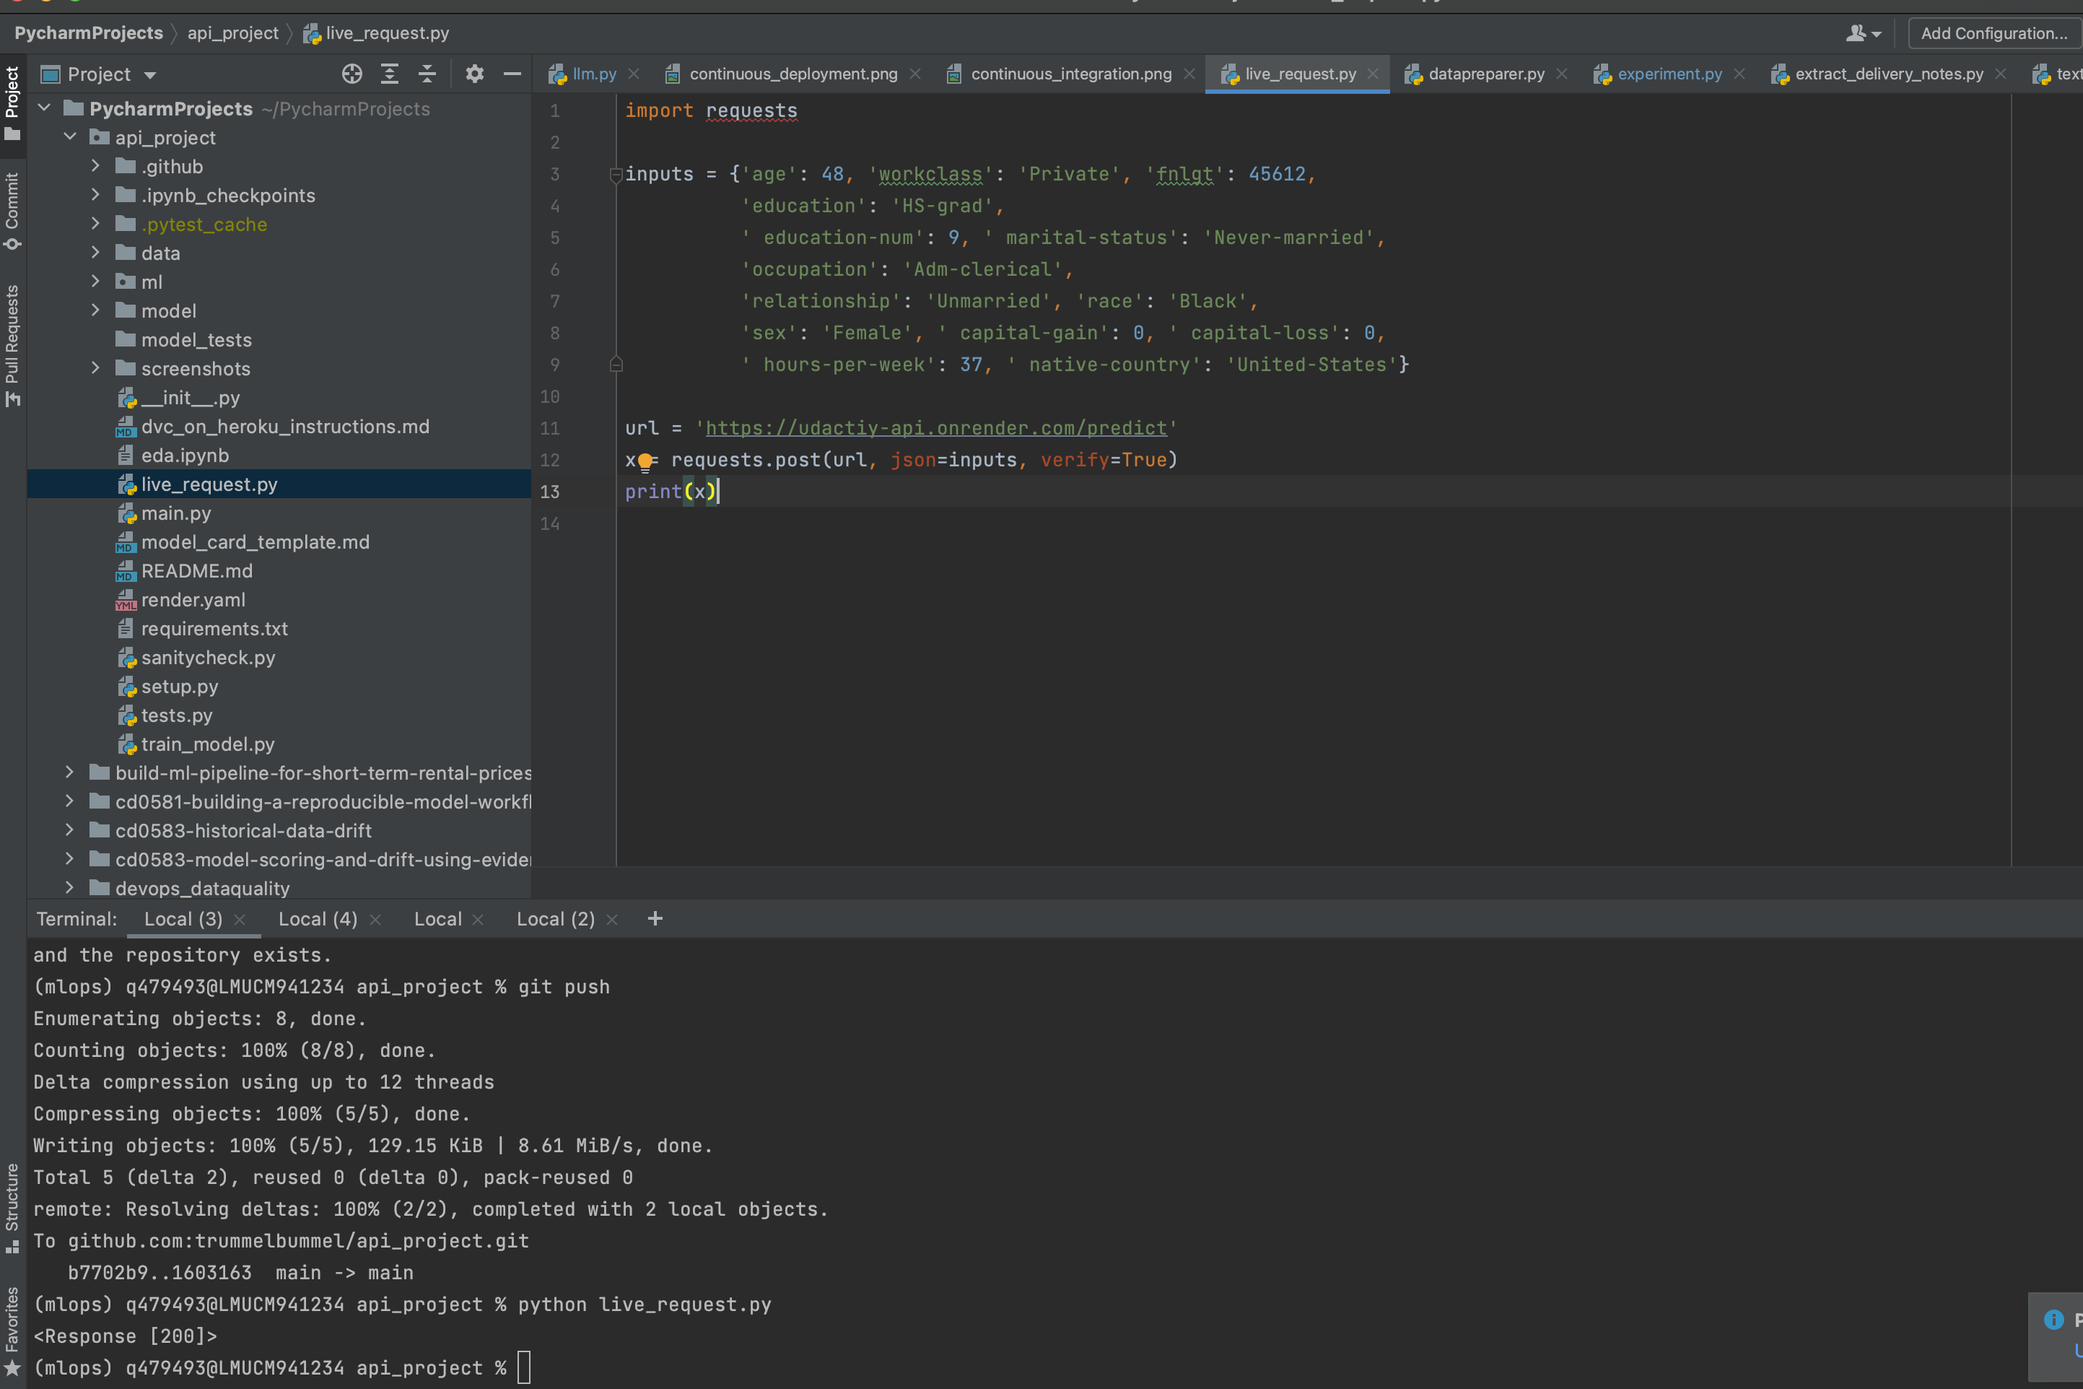
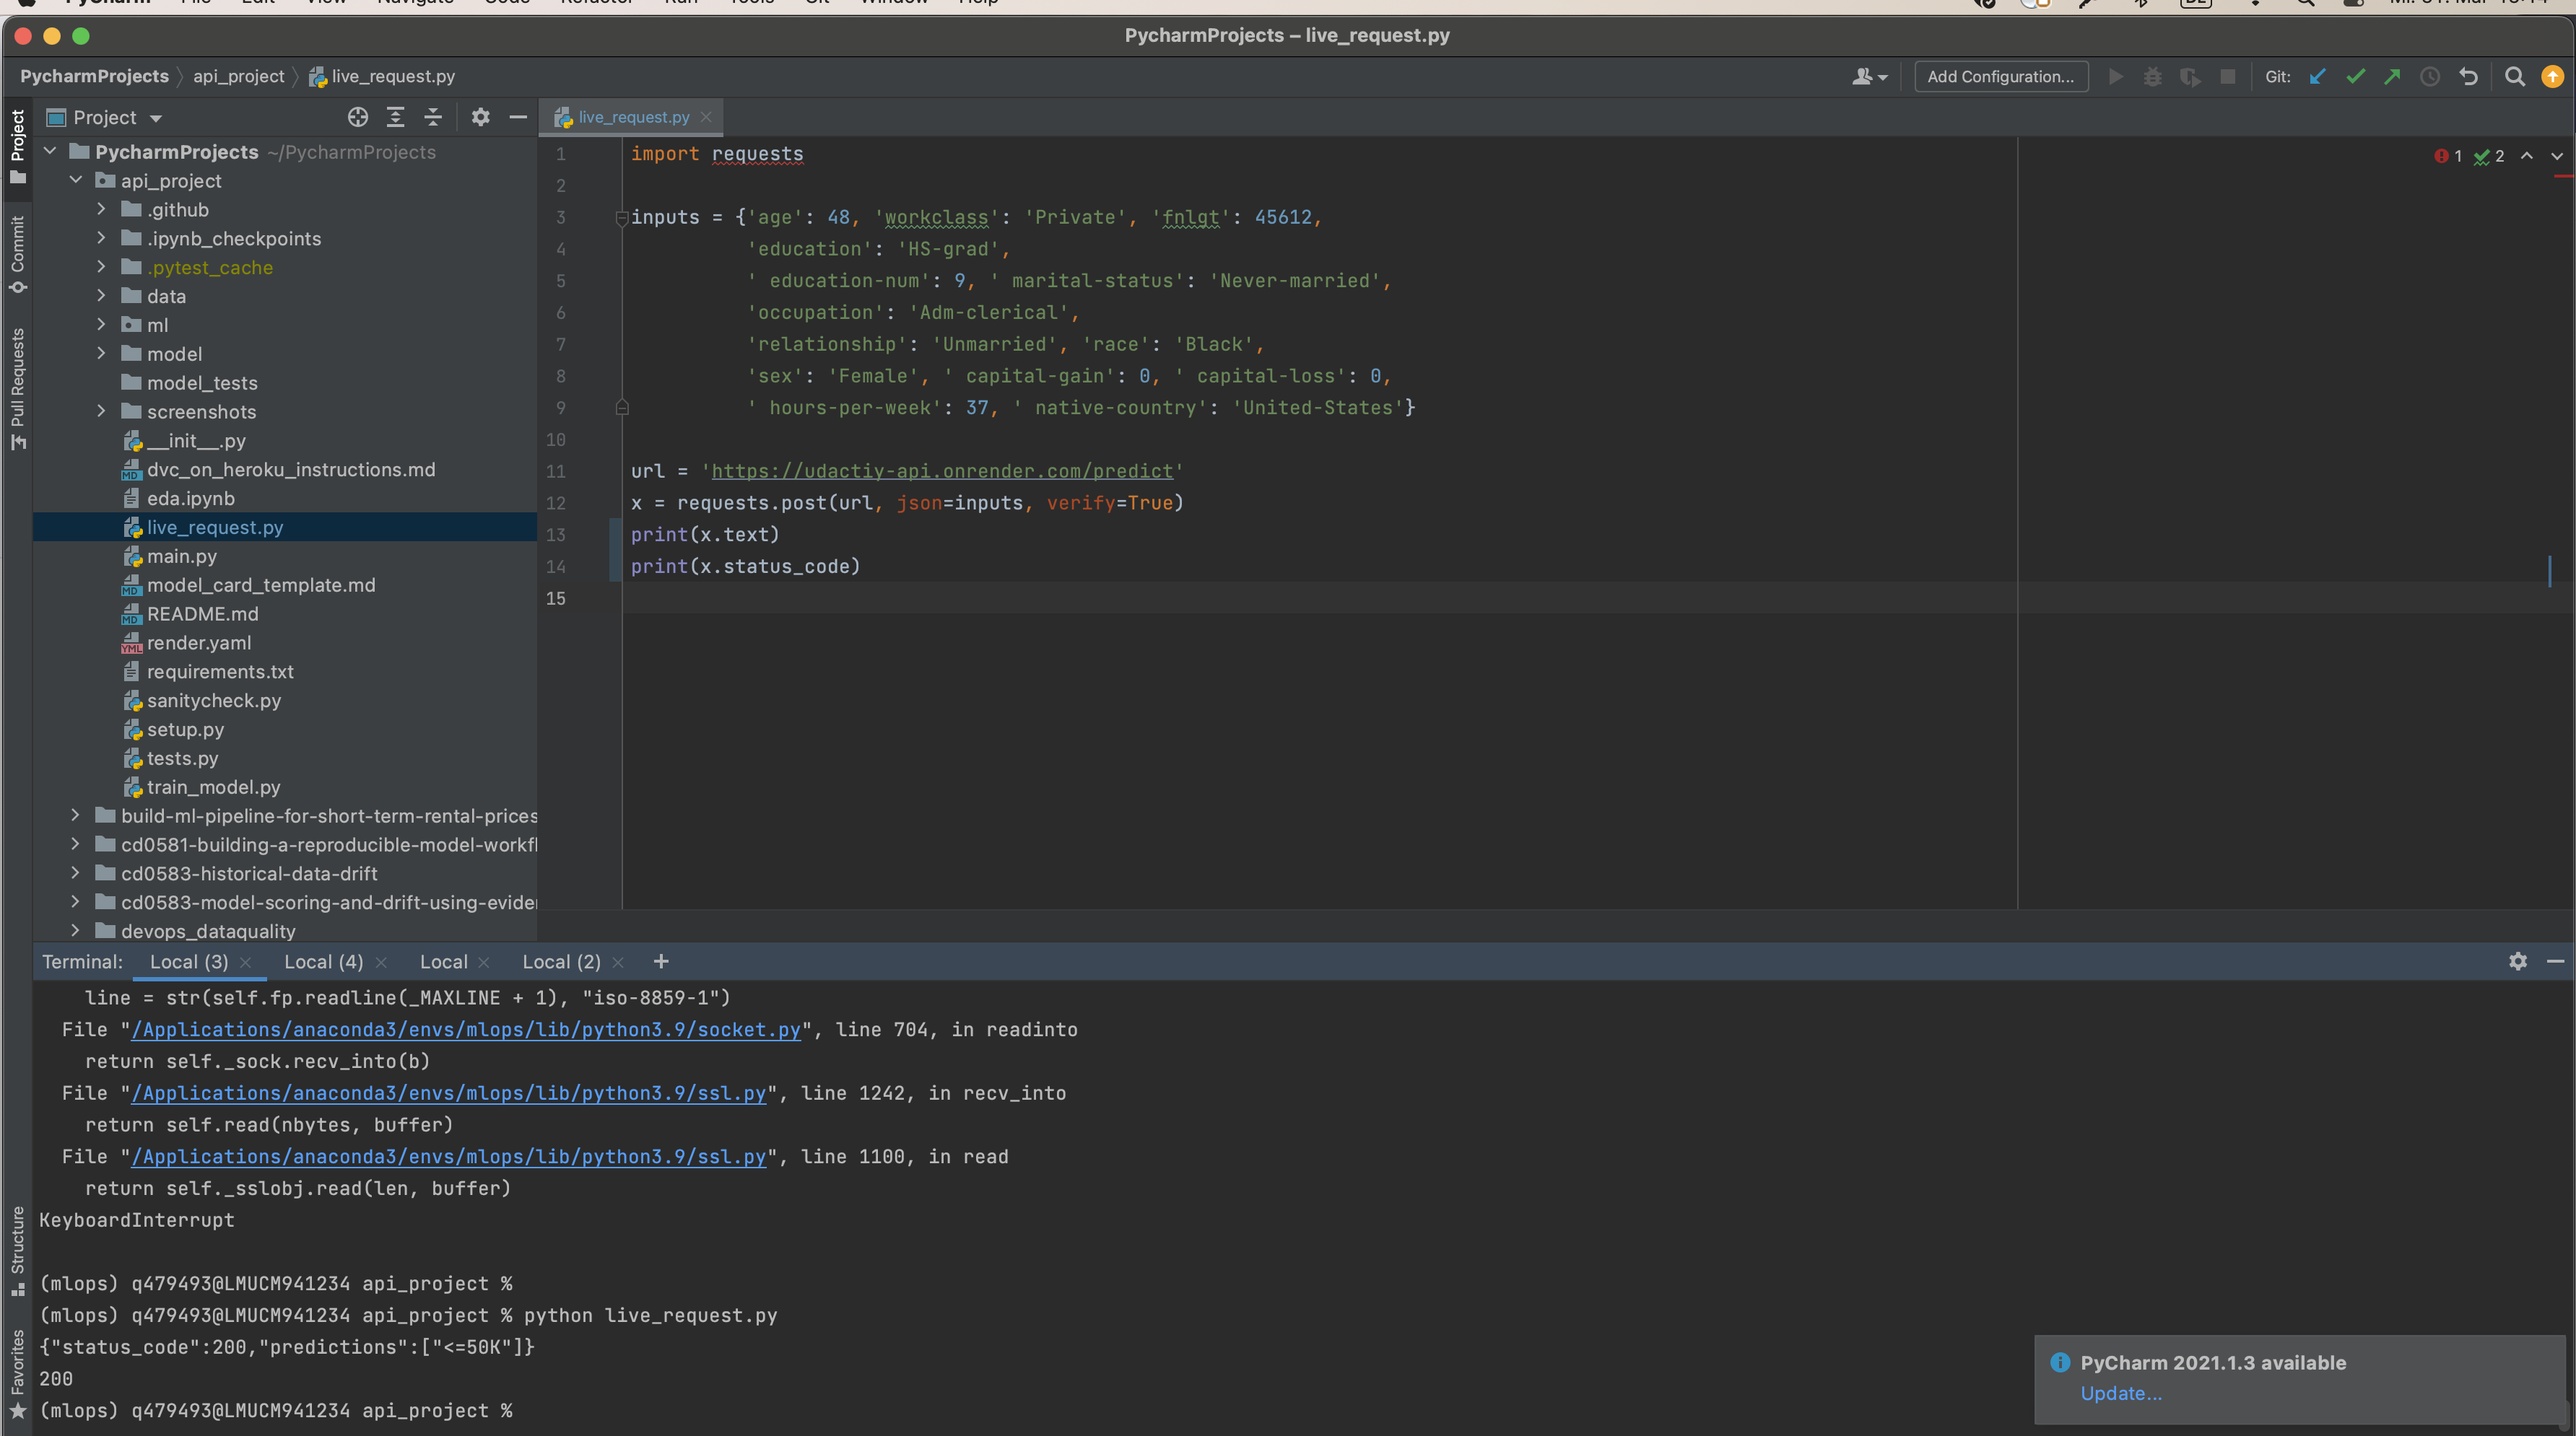
add live request fix

diff --git a/live_request.py b/live_request.py
@@ -10,4 +10,5 @@ inputs = {'age': 48, 'workclass': 'Private', 'fnlgt': 45612,
 
 url = 'https://udactiy-api.onrender.com/predict'
 x = requests.post(url, json=inputs, verify=True)
-print(x)
+print(x.text)
+print(x.status_code)
